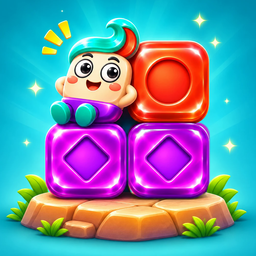
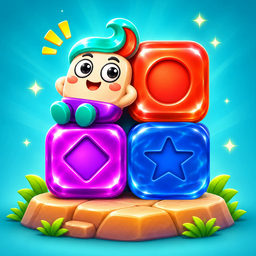
İkon v5: mor yerine mavi yıldız taşı (mor sürüm iptal, arşivde)

Changed region(s): [[0.5, 0.4688, 0.8438, 0.7812]]

diff --git a/docs/DURUM.md b/docs/DURUM.md
@@ -3,7 +3,7 @@
 Son güncelleme: 2026-11-18. Oyunun tam tanımı: [OYUN.md](OYUN.md). Kararlar: [KARARLAR.md](KARARLAR.md).
 
 ## Şu an
-- **2026-11-18: İkon v5 — turkuaz üçgen yerine mor baklava** (kullanıcı: "Oyun uygulama iconundaki turkuaz taşı mor taşımız ile değiştirebilir misin" → "Mor baklava"). Kaynak `docs/varliklar/gorseller/arayuz/uygulama-ikonu-v5.png`: v4'te sağ alttaki turkuaz taş taş şekliyle sınırlı renk kaydırmayla mora çevrildi, ortasına soldaki mor baklavanın ayakkabı altında kalmayan kısmı yumuşak maskeyle kopyalandı (yapay zekâ aracı yok; Higgsfield askıda). Yeniden üretilen: `app-icon.png`, `app-icon-legacy.png`, `app-icon-bg.png` (ortada 696, kenar uzatma + bulanıklık), `notify-large.png`, `docs/varliklar/facebook/app-icon-1024/16.png`. v4 dosyaları arşivde `ikon_v4_2026-11-18`. Mağaza ikonları güncellenmedi.
+- **2026-11-18: İkon v5 — turkuaz üçgen yerine mavi yıldız** (kullanıcı önce "Mor baklava" dedi, sonra "Pardon mavi … Mor taş yapmıyoruz iptal … Turkuaz taşı mavi taş yapalım"). Kaynak `docs/varliklar/gorseller/arayuz/uygulama-ikonu-v5.png`: v4'te sağ alttaki turkuaz taş (ve zemindeki yansıması) maviye kaydırıldı, üstüne oyunun mavi yıldız taşı (`docs/varliklar/gorseller/taslar/06-mavi-yildiz.png`) aynı kutuya oturtuldu (yapay zekâ aracı yok; Higgsfield askıda). İptal edilen mor sürüm arşivde `ikon_v5_mor_iptal_2026-11-18`. Yeniden üretilen: `app-icon.png`, `app-icon-legacy.png`, `app-icon-bg.png` (ortada 696, kenar uzatma + bulanıklık), `notify-large.png`, `docs/varliklar/facebook/app-icon-1024/16.png`. v4 dosyaları arşivde `ikon_v4_2026-11-18`. Mağaza ikonları güncellenmedi.
 - **2026-11-18: Mağaza görselleri 9 dilde** (kullanıcı: "diğer dilleri de ekleyelim. Yeni mağaza görselleri oluşturalım"). Sahne stili, Android 1080×1920, yeni arka planlar ve sarmaşıkla: `docs/varliklar/magaza/android_sahne/<tr,en,es,de,it,fr,ja,ko,ar>/01–06` (`KATKAT_STORE_STYLE=sahne KATKAT_STORE_DEVICES=android KATKAT_STORE_LANGS=… tools/unity.ps1 capture-store`; ham ve sahne çıktısı `Logs/magaza`). Aynı çekim düz stili `docs/varliklar/magaza/android/` altına da yazdı; eski Android görselleri arşivde `magaza_android_2026-11-18`. Başlıklar it/fr/ko yeni, ana dili konuşan biri kontrol etmedi. Mağazalara yüklenmedi.
 - **2026-11-18: Ataş → sarmaşık** (kullanıcı: "Ataç olmasın ataç kötü duruyor" → "Sarmaşık"). Kalın (2 vuruş) / ince (1 vuruş) sarmaşık, vuruşta dönerek düşen yapraklar (`BoardView.LeafBurst`), bağlılarda grup renginde çiçek. Görseller `Editor/VineArt.cs` ile çizildi (`tools/unity.ps1 vine-art` → `Resources/PremiumV6/tripo/vine-thick|thin|leaf|flower.png`); Higgsfield hesabı askıya alınmış olduğundan yapay zekâ görseli üretilemedi. Metinler 9 dilde (intro/toast/tur). Tahtada genişlik 1,12. Videolar `Logs/captures/sarmasik_b38.mp4`, `sarmasik_b501.mp4`.
 - **2026-11-18: Huawei sıralaması (REST), otomatik puan, kayıt hatırlatması, doğal tempo, renkli yıldırım** (kullanıcı: "huawei için yeni bir versiyon çıkaracağız … minör"; "animasyonlar … çok hızlı olup bitiyor … ağır çekim gibi olmayacak doğal akışı gibi"; "animasyonların tamamını doğal yavaşlat. Yıldırımı da patlayan taşın renginde ve duman çıkıyormuş gibi olsun şimşek çizgilerinden"; "Oyuncunun mutlaka kayıt yaptırması hatırlatılsın"; Huawei için "REST ile yapalım, Firebase'in API'si var onu kullanalım"; "Huawei'de oyunun adı sadece Stone Burst … burada da yazsın"; "diğer dilleri de ekleyelim. Yeni mağaza görselleri oluşturalım").

diff --git a/docs/KARARLAR.md b/docs/KARARLAR.md
@@ -223,4 +223,4 @@ Eski ayrıntılı karar günlüğü arşivde (`KatKat_Arsiv_2026-11-06/docs/KARA
 - **2026-11-18 — Sıralama puanı kendiliğinden yazılır, kayıt hatırlatılır** (kullanıcı: "Bir kullanıcı ayarlara girmez ise ömür boyu sıralamada diğer insanlara görünemeyecek … mutlaka kayıt yaptırması hatırlatılsın"). Girişliyken her kazanılan bölümden sonra yazılır. Kayıtsıza 20. bölümden itibaren pencere (Kayıt ol / Sonra; +15, +25, +40, sonra +100 bölümde yeniden) ve kupa düğmesinde uyarı noktası. Hesabını silene sorulmaz.
 - **2026-11-18 — AppGallery'de sıralama Firebase REST ile** (kullanıcı: "REST ile yapalım, Firebase'in API'si var onu kullanalım"). Anonim Firebase hesabı, Android/iOS ile ortak liste; ad "Oyuncu NNNN" (oyuncu adı girişi yok: dünya listesinde denetimsiz ad istenmedi; istenirse ileride). Bulut kaydı yok. 2026-11-11'deki "AppGallery'de hesap ve sıralama gizli" kararının yerini alır.
 - **2026-11-18 — Ataş yerine sarmaşık** (kullanıcı: "ben bu ataçı işlev olarak beğeniyorum fakat ataçla çok bağdaştıramıyorum … Ataç olmasın ataç kötü duruyor" → seçenekler arasından "Sarmaşık"). Kural aynı (seçilemez, yanında soyma 1–2 vuruş, bağlılar birlikte). Görsel: kalın sarmaşık (2 vuruş) / ince (1 vuruş), vuruşta yapraklar saçılır; bağlı grup = aynı renk çiçek (eski renk tonu kalktı). Görseller kodla çizildi (`Editor/VineArt.cs`, `tools/unity.ps1 vine-art`; Higgsfield hesabı askıda); daha iyi bir görsel gelirse `PremiumV6/tripo/vine-*.png` değiştirilir. Kod içi adlar (clip) değişmedi.
-- **2026-11-18 — İkon v5** (kullanıcı: turkuaz taş yerine "Mor baklava"). İkonda alt sırada iki mor baklava, üstte mercan daire.
+- **2026-11-18 — İkon v5** (kullanıcı: "Turkuaz taşı mavi taş yapalım"; önceki "Mor baklava" iptal). İkonda alt sırada mor baklava ve mavi yıldız, üstte mercan daire.

diff --git a/docs/OYUN.md b/docs/OYUN.md
@@ -215,7 +215,7 @@ Aşağısı v7 dönemi (arşiv bilgisi): Bölümler `LevelLab rebuild` (v7) ile 
 - **Ayarlar:** Resimsiz; turkuaz→krem renk geçişi, süzülen kabarcıklar. Krem kartta Ses ve Titreşim anahtarları, Dil (dokuz dil, her biri kendi yazısıyla), kısa not; altta sürüm. Dil değişince ekranlar yeni dille yeniden kurulur.
 - **Yazı tipi:** Nunito ExtraBold (başlık, düğme, sayılar) ve Nunito SemiBold (açıklama), OFL lisanslı. Arapça için Noto Sans Arabic, Japonca/Korece için Noto Sans KR yedek fontları. Hap düğmelerde yazı yüksekliğin ~%32'si, uzun metin sığana dek küçülür.
 - **Maskot:** Kristal maskot; gözleri etrafa bakar, göz kırpar; büyük hamle, özel taş ve yıldızda zıplar; son 1–3 hamlede endişelenir.
-- **Uygulama ikonu (2026-11-17):** Turkuaz zemin, taş platform üstünde gülen maskot + iki mor (baklava) ve mercan (daire) taş (`docs/varliklar/gorseller/arayuz/uygulama-ikonu-v5.png`; 2026-11-18: objeler ~%20 büyütüldü, sağ alttaki turkuaz üçgen mor baklava oldu). Android uyarlanabilir ikonda orijinal görsel ortada %68, dışı kenar uzatma. Bildirim büyük simgesi aynı görsel.
+- **Uygulama ikonu (2026-11-17):** Turkuaz zemin, taş platform üstünde gülen maskot + mor (baklava), mercan (daire) ve mavi (yıldız) taş (`docs/varliklar/gorseller/arayuz/uygulama-ikonu-v5.png`; 2026-11-18: objeler ~%20 büyütüldü, sağ alttaki turkuaz üçgen mavi yıldız oldu). Android uyarlanabilir ikonda orijinal görsel ortada %68, dışı kenar uzatma. Bildirim büyük simgesi aynı görsel.
 
 ## 8. Proje yapısı
 
